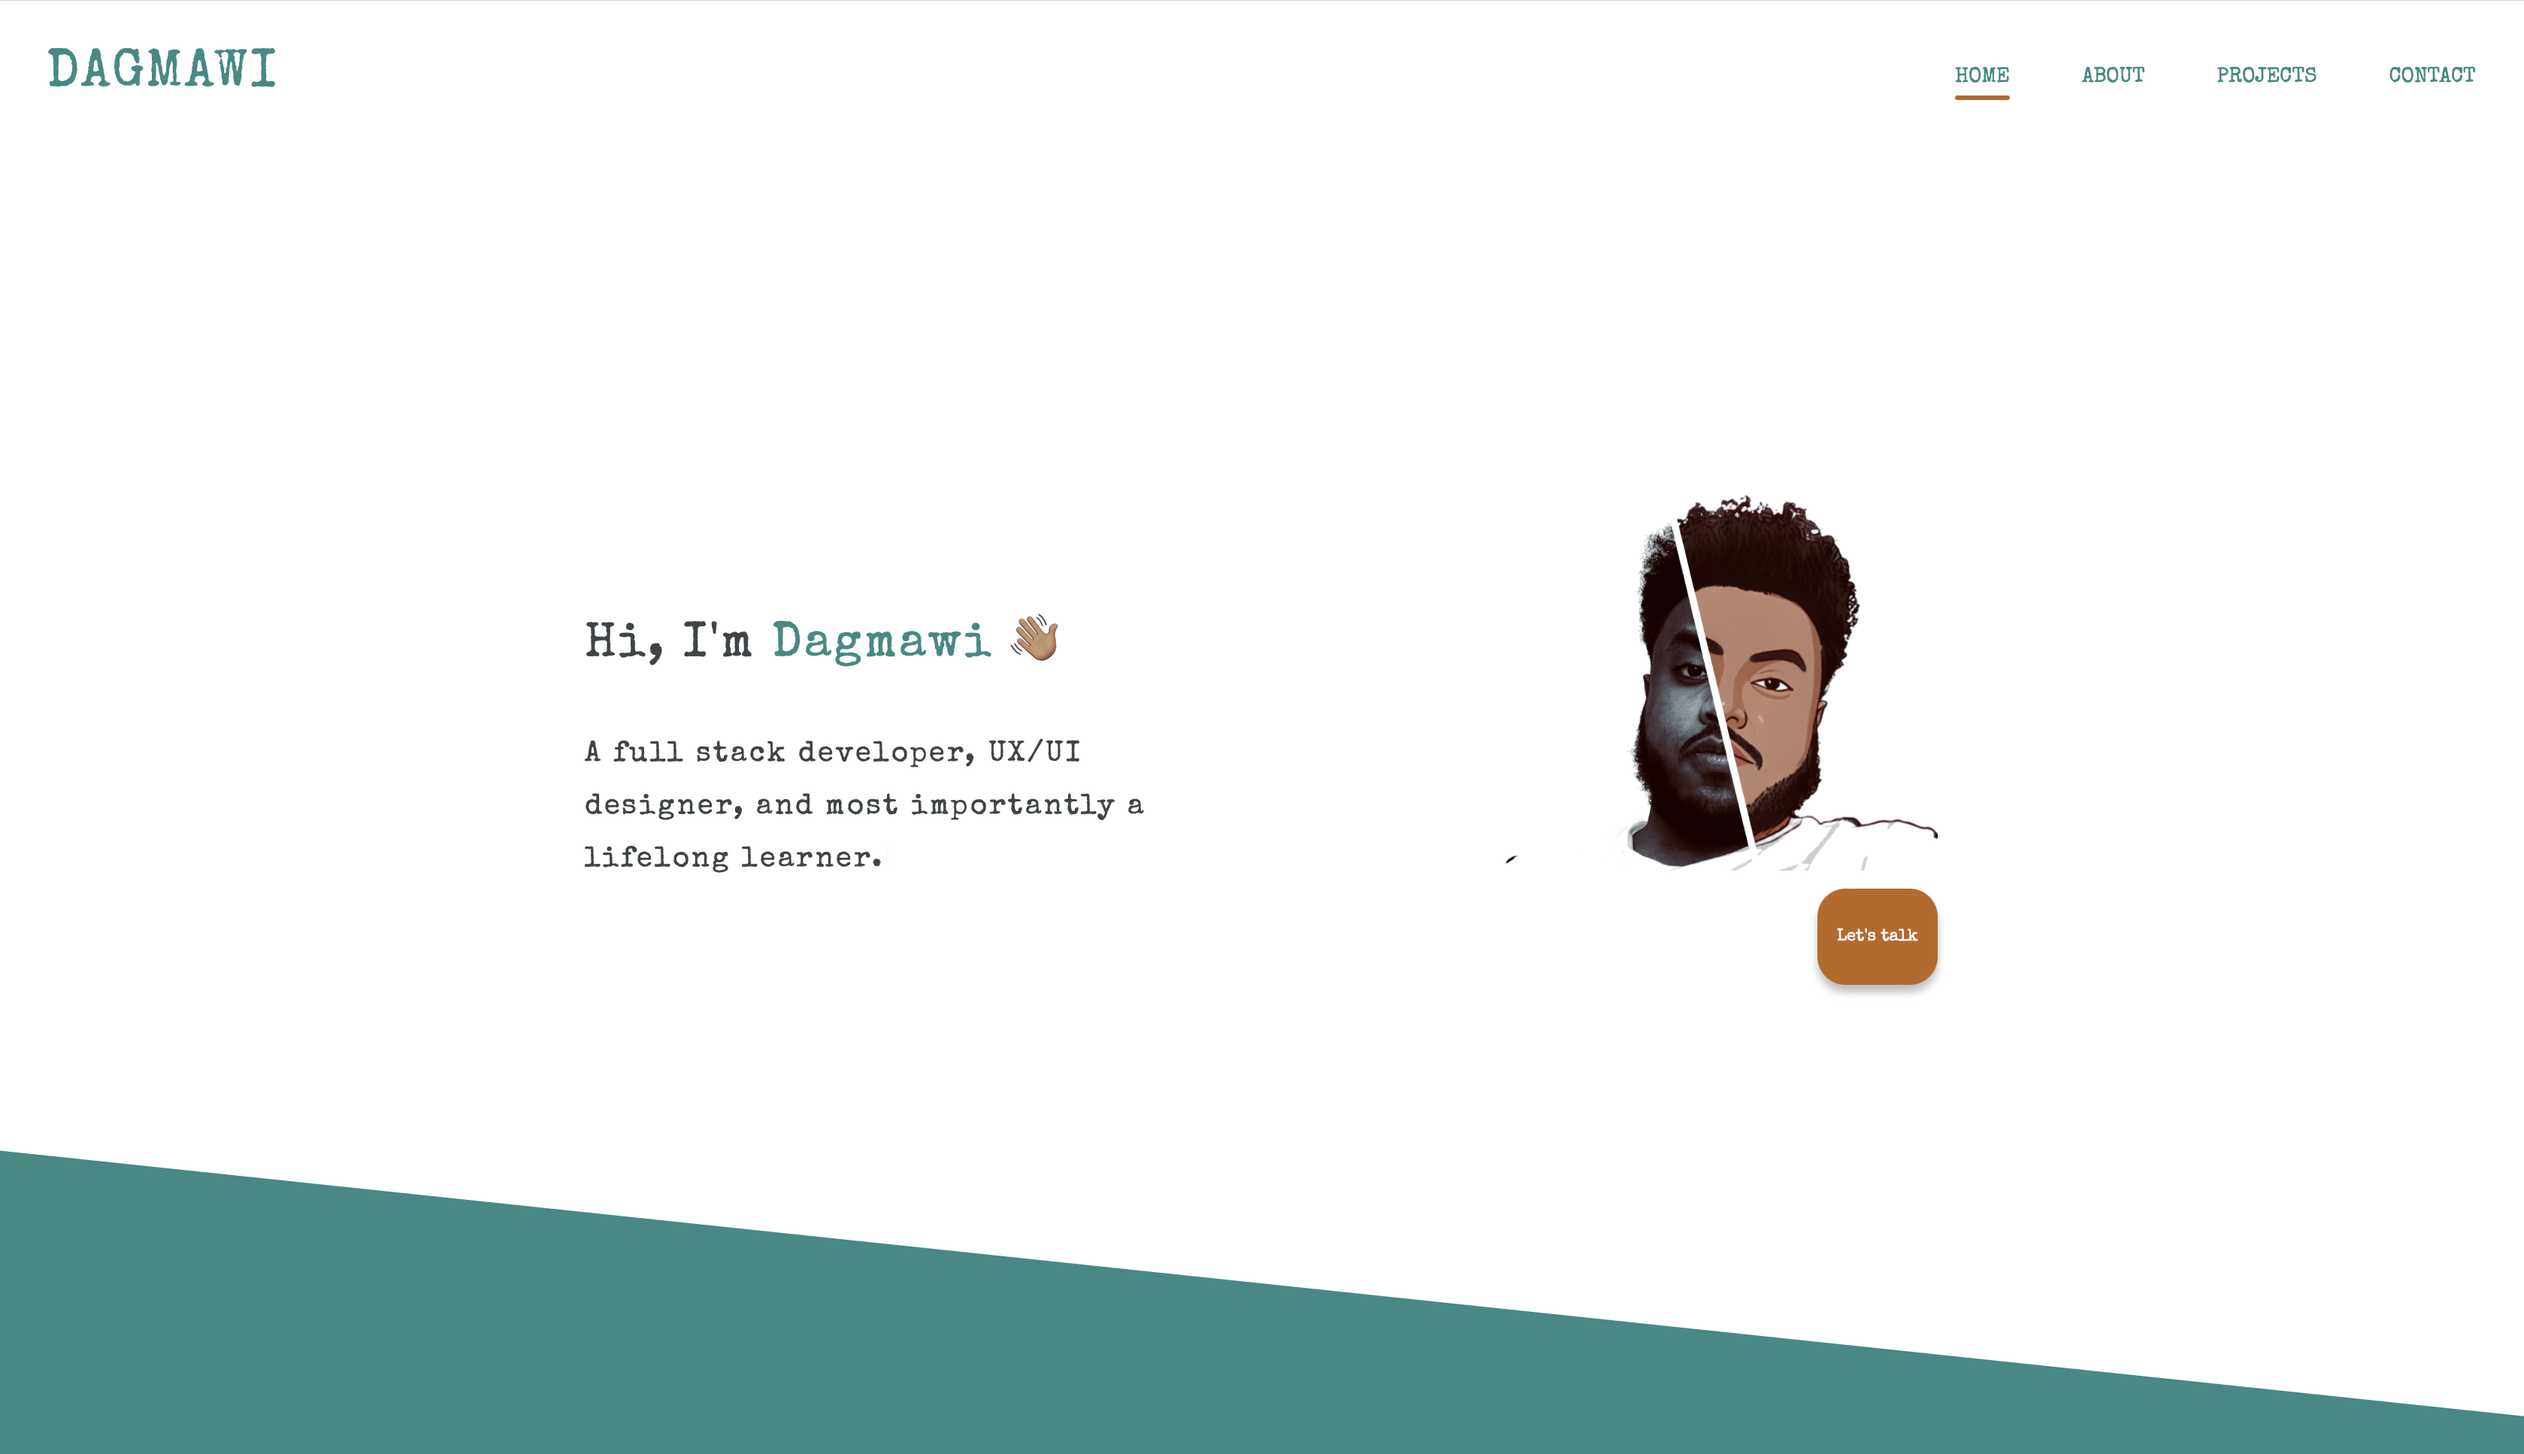
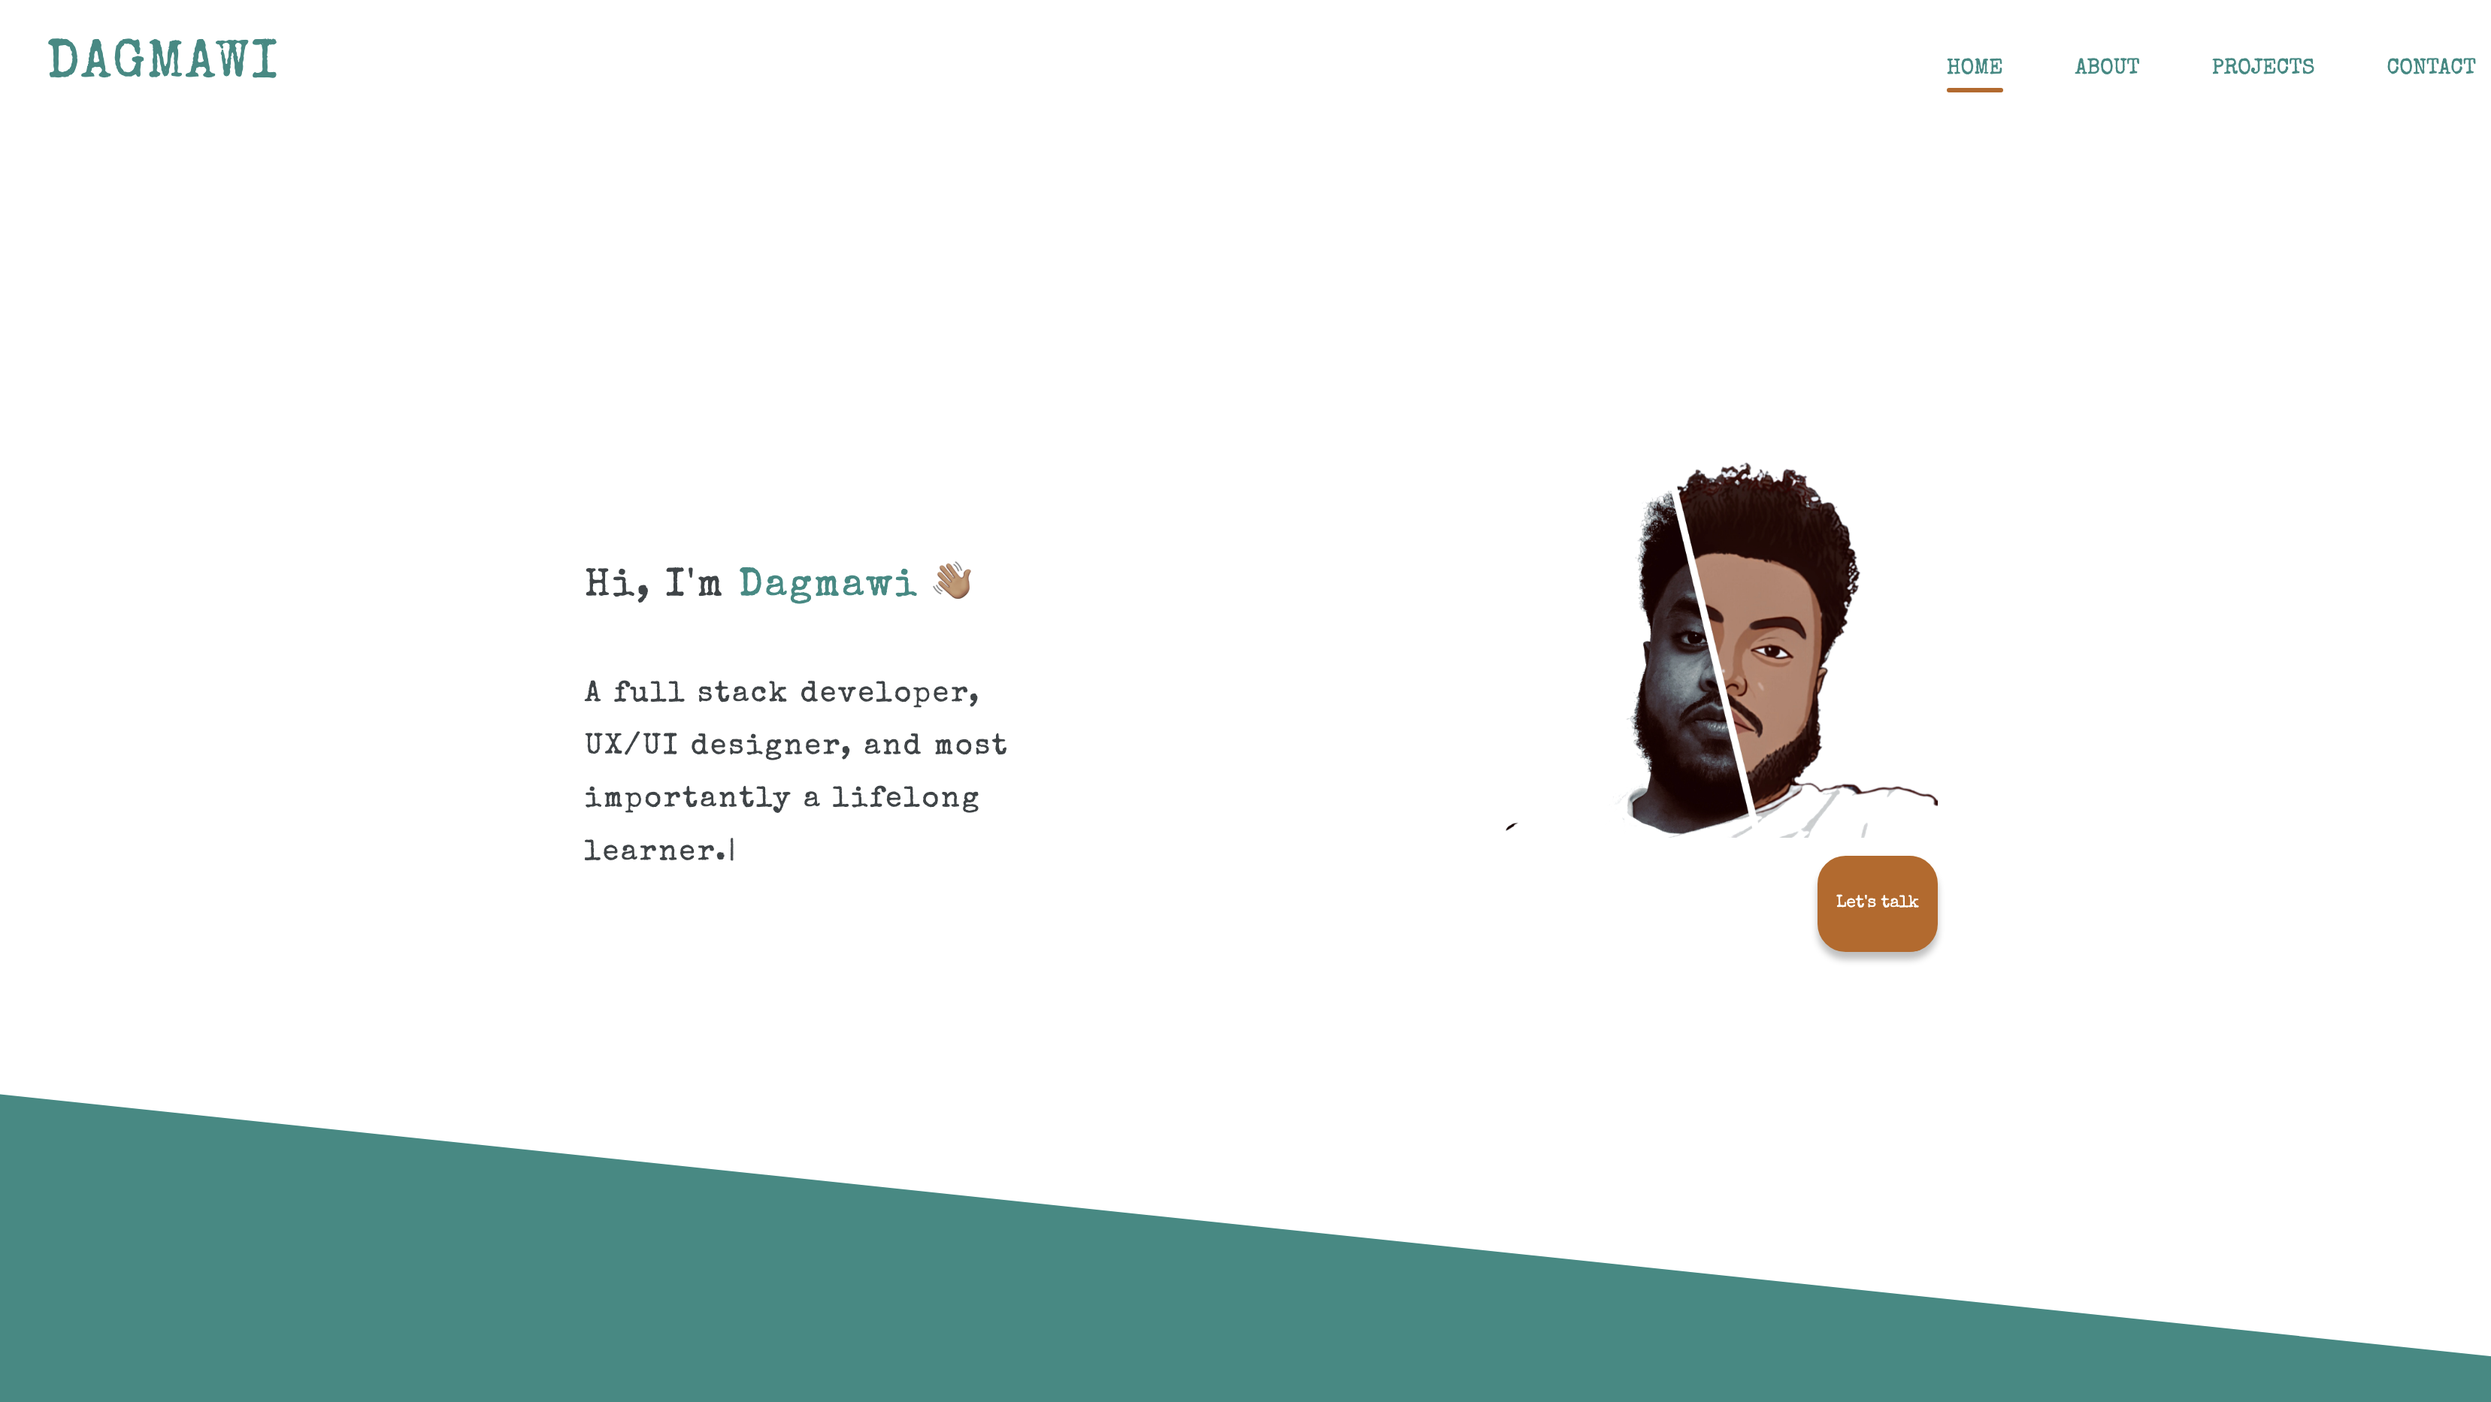
Few touch ups

diff --git a/styles/main.css b/styles/main.css
@@ -49,6 +49,7 @@
 }
 
 .introContainer {
+  width: 400px;
   position: absolute;
   left: 0;
   padding: 0 5%;
@@ -61,10 +62,10 @@
   .introContainer {
     top: 40px;
     left: unset;
+    width: 100%;
   }
 }
 .introContainer p {
-  width: 380px;
   font-family: "Special Elite", cursive;
   letter-spacing: 0.1rem;
   color: #3e4447;
@@ -74,11 +75,11 @@
 }
 @media only screen and (max-width: 900px) {
   .introContainer p {
-    width: 330px;
+    text-align: center;
   }
 }
 .introContainer p #hi {
-  font-size: 2rem;
+  font-size: 1.6rem;
 }
 .introContainer p #hi #name {
   color: #2a8b83;
@@ -729,12 +730,12 @@
   width: 90%;
   margin: auto;
   display: flex;
-  justify-content: center;
+  justify-content: space-evenly;
   align-items: center;
   padding: 1rem;
   box-shadow: 0px 5px 5px rgba(0, 0, 0, 0.25);
   border-radius: 0.5rem;
-  margin-bottom: 2.2rem;
+  margin-bottom: 5rem;
 }
 @media only screen and (max-width: 800px) {
   #project .projects .pro_card {
@@ -749,6 +750,7 @@
 }
 #project .projects .pro_card .child2 {
   max-height: 30rem;
+  width: 100%;
 }
 #project .projects .pro_card .child2 h2 {
   color: #be651c;

diff --git a/styles/_project.scss b/styles/_project.scss
@@ -77,12 +77,12 @@ $teal: #2a8b83;
             width: 90%;
             margin: auto;
             display: flex; 
-            justify-content: center;
+            justify-content: space-evenly;
             align-items: center;
             padding: 1rem;
             box-shadow: 0px 5px 5px rgba(0, 0, 0, 0.25);
             border-radius:.5rem;
-            margin-bottom: 2.2rem;
+            margin-bottom: 5rem;
             @media only screen and (max-width: 800px) {
                 &{
                     flex-direction: column-reverse;
@@ -96,10 +96,12 @@ $teal: #2a8b83;
             .child1{
                 padding: 3rem;
                 width: 100%;
+                
             }
 
             .child2{
                 max-height: 30rem;
+                width: 100%;
                 //overflow-y: hidden;
                 
                 h2{

diff --git a/index.html b/index.html
@@ -295,11 +295,11 @@
 
             <div class="pro_card" data-aos="slide-up" data-aos-duration="1000">
                 <div class="child1">
-                    <a href=""> <img src="./image/portfolio.png" alt=""> </a>
+                    <img src="./image/portfolio.png" alt=""> 
                 </div>
                 <div class="child2">
-                    <h2>My Portfolio</h2>
-                    <p> Not much to say here 😊 Thank you for taking the time to explore my site!</p>
+                    <h2>PORTFOLIO</h2> <br>
+                    <p> Not much to say here 😊 Thank you for taking the time to explore my site!</p> <br>
                     <p> <strong>Contribution: </strong> Full Development</p> <br>
                     <p> <strong> JavaScript &nbsp; HTML &nbsp; SASS </strong> </p><br> 
                     <button>

diff --git a/styles/_intro.scss b/styles/_intro.scss
@@ -59,6 +59,7 @@ $font-family: "Special Elite", cursive;
 
 //Intro and container
 .introContainer {
+  width: 400px;
   position: absolute;
   left: 0;
   padding: 0 5%;
@@ -71,6 +72,8 @@ $font-family: "Special Elite", cursive;
       top: 40px;
       left: unset;
       width: 100%;
+      
+      
     }
   }
   p {
@@ -81,10 +84,12 @@ $font-family: "Special Elite", cursive;
     font-size: 1.2rem;
     line-height: 2.2rem;
     padding-top: 2rem;
+    //text-align: center;
     @media only screen and (max-width: 900px) {
       & {
+        text-align: center;
         //font-size: 1.2rem;
-        width: 350px;
+        //width: 350px;
         // padding-top: 2rem;
       }
     }
